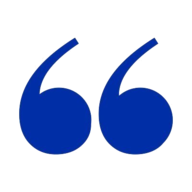
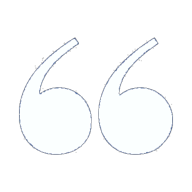
changed theme

Changed region(s): [[0.0938, 0.1875, 0.9062, 0.8125]]

diff --git a/index.html b/index.html
@@ -1,1 +1,1 @@
-<!DOCTYPE html><html lang="en"><head><meta charset="utf-8"><meta name="viewport" content="width=device-width,initial-scale=1,shrink-to-fit=no"><meta name="msapplication-TileColor" content="#ffc40d"><meta name="msapplication-config" content="./browserconfig.xml"><meta name="theme-color" content="#0B3F8E"><meta name="description" content="Reply or quote a tweet with @quoted_replies to see the quoted replies for a tweet (even your own tweet), or share the tweet in my DM."><meta name="author" content="James Muriithi"><meta name="keywords" content="quoted_replies, quoted replies, replies"><meta property="og:site_name" content="https://twitter.com/quoted_replies"><meta property="og:title" content="Quoted Replies"><meta property="og:description" content="Reply or quote a tweet with @quoted_replies to see the quoted replies for a tweet (even your own tweet), or share the tweet in my DM."><meta property="og:image:url" itemprop="image" content="https://james-muriithi.github.io/fyp-ms/assets/images/logo-lg.png"><meta property="og:image" content="https://pbs.twimg.com/profile_images/1227506065023143936/97fRlnwW_400x400.jpg"><meta property="og:image:url" content="https://pbs.twimg.com/profile_images/1227506065023143936/97fRlnwW_400x400.jpg"><meta property="og:image:secure_url" content="https://pbs.twimg.com/profile_images/1227506065023143936/97fRlnwW_400x400.jpg"><meta property="og:image:type" content="image/png"><meta property="og:image:width" content="400"><meta property="og:image:height" content="400"><meta property="og:locale" content="en_GB"><meta property="og:type" content="website"><title>Quoted Replies</title><link rel="apple-touch-icon" sizes="180x180" href="images/apple-touch-icon.png"><link rel="icon" type="image/png" sizes="32x32" href="images/favicon-32x32.png"><link rel="icon" type="image/png" sizes="16x16" href="images/favicon-16x16.png"><link rel="manifest" href="site.webmanifest"><link rel="mask-icon" href="images/safari-pinned-tab.svg" color="#5bbad5"><link rel="shortcut icon" href="images/favicon.ico"><link rel="stylesheet" href="libs/bootstrap/css/bootstrap.min.css" type="text/css"><link rel="preload" href="https://fonts.googleapis.com/icon?family=Material+Icons" as="style" onload="this.onload=null;this.rel='stylesheet'"><noscript><link rel="stylesheet" href="https://fonts.googleapis.com/icon?family=Material+Icons"></noscript><link rel="preload" href="https://fonts.googleapis.com/css2?family=PT+Sans&display=swap" as="style" onload="this.onload=null;this.rel='stylesheet'"><noscript><link rel="stylesheet" href="https://fonts.googleapis.com/css2?family=PT+Sans&display=swap"></noscript><link rel="preload" href="css/util.css" as="style" onload="this.onload=null;this.rel='stylesheet'"><noscript><link rel="stylesheet" href="css/util.css"></noscript><link rel="stylesheet" href="css/main.css"><script src="libs/jquery/jquery.min.js" type="text/javascript"></script></head><body data-theme="dark" class="h-100"><nav class="navbar fixed-top navbar-dark bg-primary nav-fill"><h2 class="navbar-brand mb-0 text-white"><svg version="1.0" xmlns="http://www.w3.org/2000/svg" width="50" height="50" viewBox="0 0 400.000000 400.000000" preserveAspectRatio="xMidYMid meet"><metadata>Created by potrace 1.15, written by Peter Selinger 2001-2017</metadata><g transform="translate(0.000000,400.000000) scale(0.100000,-0.100000)" fill="#fff" stroke="none"><path d="M1424 3124 c-346 -232 -608 -479 -779 -734 -106 -159 -184 -341 -221 -520 -25 -119 -26 -364 -1 -480 87 -406 422 -646 836 -600 52 6 122 17 156 26 184 47 359 190 433 354 53 120 69 352 32 494 -113 444 -624 645 -1017 402 l-41 -26 5 43 c36 319 268 625 713 941 52 37 95 69 95 72 0 9 -70 114 -76 114 -4 0 -65 -39 -135 -86z"/><path d="M3090 3132 c-601 -404 -935 -829 -1016 -1292 -23 -132 -15 -382 15 -495 38 -141 93 -238 196 -341 57 -58 114 -104 155 -127 137 -75 309 -106 480 -87 205 23 331 80 460 210 97 98 149 180 187 295 23 69 27 97 27 205 0 111 -3 134 -28 205 -60 173 -187 321 -340 395 -104 50 -188 70 -301 70 -146 0 -265 -37 -388 -121 l-60 -41 6 73 c12 150 67 285 179 444 112 159 363 389 566 520 34 22 62 45 62 50 0 14 -69 115 -78 115 -4 0 -59 -35 -122 -78z"/></g></svg> Qouted Replies</h2><div class="d-none d-sm-block"><ul class="navbar-nav m-r-30 d-inline-block"><li class="nav-item active"><a class="nav-link" href="#">Home <span class="sr-only">(current)</span></a></li><li class="nav-item"><a class="nav-link" href="#">Popular <span class="sr-only">(current)</span></a></li><li class="nav-item"><a class="nav-link" href="#">About <span class="sr-only">(current)</span></a></li><li class="nav-item"><a class="nav-link" href="#">Account <span class="sr-only">(current)</span></a></li></ul></div><div class="d-flex d-sm-none text-white twitter-logo"><a href="https://twitter.com/quoted_replies" target="_blank" rel="noopener"><svg height="30" width="30" viewBox="283 369 405 200" xmlns="http://www.w3.org/2000/svg"><path d="M 630, 425 A 195, 195 0 0 1 331, 600 A 142, 142 0 0 0 428, 570 A  70,  70 0 0 1 370, 523 A  70,  70 0 0 0 401, 521 A  70,  70 0 0 1 344, 455 A  70,  70 0 0 0 372, 460 A  70,  70 0 0 1 354, 370 A 195, 195 0 0 0 495, 442 A  67,  67 0 0 1 611, 380 A 117, 117 0 0 0 654, 363 A  65,  65 0 0 1 623, 401 A 117, 117 0 0 0 662, 390 A  65,  65 0 0 1 630, 425 Z" style="fill:#fff;"/></svg></a></div></nav><div class="twitter-image f-r"><svg version="1.1" xmlns="http://www.w3.org/2000/svg" xmlns:xlink="http://www.w3.org/1999/xlink" width="60" height="60" viewBox="0 0 50 50"><path fill="#FFFFFF" d="M 35.001, 26.999 H 27 V 35 h -3.999 v -8.001 h -8.002 V 23 h 8.002 v -8 H 27 v 8 h 8.001 V 26.999 z"/></svg></div><div class="container-fluid h-100"><div id="page-home" class="active"><h2>Home Page</h2><div class="block">"Lorem ipsum dolor sit amet, consectetur adipiscing elit, sed do eiusmod tempor incididunt ut labore et dolore magna aliqua. Ut enim ad minim veniam, quis nostrud exercitation ullamco laboris nisi ut aliquip ex ea commodo consequat. Duis aute irure dolor in reprehenderit in voluptate velit esse cillum dolore eu fugiat nulla pariatur. Excepteur sint occaecat cupidatat non proident, sunt in culpa qui officia deserunt mollit anim id est laborum." Section 1.10.32 of "de Finibus Bonorum et Malorum", written by Cicero in 45 BC "Sed ut perspiciatis unde omnis iste natus error sit voluptatem accusantium doloremque laudantium, totam rem aperiam, eaque ipsa quae ab illo inventore veritatis et quasi architecto beatae vitae dicta sunt explicabo. Nemo enim ipsam voluptatem quia voluptas sit aspernatur aut odit aut fugit, sed quia consequuntur magni dolores eos qui ratione voluptatem sequi nesciunt. Neque porro quisquam est, qui dolorem ipsum quia dolor sit amet, consectetur, adipisci velit, sed quia non numquam eius modi tempora incidunt ut labore et dolore magnam aliquam quaerat voluptatem. Ut enim ad minima veniam, quis nostrum exercitationem ullam corporis suscipit laboriosam, nisi ut aliquid ex ea commodi consequatur? Quis autem vel eum iure reprehenderit qui in ea voluptate velit esse quam nihil molestiae consequatur, vel illum qui dolorem eum fugiat quo voluptas nulla pariatur?" 1914 translation by H. Rackham</div></div><div id="page-feed" class="inactive"><h2>Popular Tweets</h2><div class="block"><blockquote class="twitter-tweet"><p lang="und" dir="ltr"><a href="https://twitter.com/quoted_replies?ref_src=twsrc%5Etfw">@quoted_replies</a></p>&mdash; Dazils Ferdinand (@_dazils_) <a href="https://twitter.com/_dazils_/status/1246119110410416130?ref_src=twsrc%5Etfw">April 3, 2020</a></blockquote></div></div><div id="page-create" class="inactive"><h2>About Page</h2></div><div id="page-account" class="inactive h-100"><h2 class="d-flex justify-content-right">Account page</h2><div class="block row h-100 justify-content-center align-items-center"><a class="twitter btn" href="#"><div class="twitter-icon btn-icon"></div>Login with Twitter</a></div></div></div><style type="text/css"></style><footer class="footer d-sm-none"><div id="buttonGroup" class="btn-group selectors" role="group" aria-label="Basic example"><button id="home" type="button" class="btn button-active"><div class="selector-holder"><i class="material-icons">home</i> <span>Home</span></div></button> <button id="feed" type="button" class="btn button-inactive"><div class="selector-holder"><i class="material-icons">trending_up</i> <span>Popular</span></div></button> <button id="create" type="button" class="btn button-inactive"><div class="selector-holder"><i class="material-icons">info_outline</i> <span>About</span></div></button> <button id="account" type="button" class="btn button-inactive"><div class="selector-holder"><i class="material-icons">perm_identity</i> <span>Account</span></div></button></div></footer><script async src="libs/bootstrap/js/bootstrap.bundle.min.js" type="text/javascript"></script><script async src="https://platform.twitter.com/widgets.js" charset="utf-8"></script><script src="js/main.js"></script></body></html>
+<!DOCTYPE html><html lang="en"><head><meta charset="utf-8"><meta name="viewport" content="width=device-width,initial-scale=1,shrink-to-fit=no"><meta name="msapplication-TileColor" content="#ffc40d"><meta name="msapplication-config" content="./browserconfig.xml"><meta name="theme-color" content="#1976D2"><meta name="description" content="Reply or quote a tweet with @quoted_replies to see the quoted replies for a tweet (even your own tweet), or share the tweet in my DM."><meta name="author" content="James Muriithi"><meta name="keywords" content="quoted_replies, quoted replies, replies"><meta property="og:site_name" content="https://twitter.com/quoted_replies"><meta property="og:title" content="Quoted Replies"><meta property="og:description" content="Reply or quote a tweet with @quoted_replies to see the quoted replies for a tweet (even your own tweet), or share the tweet in my DM."><meta property="og:image:url" itemprop="image" content="https://james-muriithi.github.io/fyp-ms/assets/images/logo-lg.png"><meta property="og:image" content="https://pbs.twimg.com/profile_images/1227506065023143936/97fRlnwW_400x400.jpg"><meta property="og:image:url" content="https://pbs.twimg.com/profile_images/1227506065023143936/97fRlnwW_400x400.jpg"><meta property="og:image:secure_url" content="https://pbs.twimg.com/profile_images/1227506065023143936/97fRlnwW_400x400.jpg"><meta property="og:image:type" content="image/png"><meta property="og:image:width" content="400"><meta property="og:image:height" content="400"><meta property="og:locale" content="en_GB"><meta property="og:type" content="website"><title>Quoted Replies</title><link rel="apple-touch-icon" sizes="180x180" href="images/apple-touch-icon.png"><link rel="icon" type="image/png" sizes="32x32" href="images/favicon-32x32.png"><link rel="icon" type="image/png" sizes="16x16" href="images/favicon-16x16.png"><link rel="manifest" href="site.webmanifest"><link rel="mask-icon" href="images/safari-pinned-tab.svg" color="#5bbad5"><link rel="shortcut icon" href="images/favicon.ico"><link rel="stylesheet" href="libs/bootstrap/css/bootstrap.min.css" type="text/css"><link rel="preload" href="https://fonts.googleapis.com/icon?family=Material+Icons" as="style" onload="this.onload=null;this.rel='stylesheet'"><noscript><link rel="stylesheet" href="https://fonts.googleapis.com/icon?family=Material+Icons"></noscript><link rel="preload" href="https://fonts.googleapis.com/css2?family=PT+Sans&display=swap" as="style" onload="this.onload=null;this.rel='stylesheet'"><noscript><link rel="stylesheet" href="https://fonts.googleapis.com/css2?family=PT+Sans&display=swap"></noscript><link rel="preload" href="css/util.css" as="style" onload="this.onload=null;this.rel='stylesheet'"><noscript><link rel="stylesheet" href="css/util.css"></noscript><link rel="stylesheet" href="css/main.css"><script src="libs/jquery/jquery.min.js" type="text/javascript"></script></head><body data-theme="dark" class="h-100"><nav class="navbar fixed-top navbar-dark bg-primary nav-fill"><h2 class="navbar-brand mb-0 text-white"><svg version="1.0" xmlns="http://www.w3.org/2000/svg" width="50" height="50" viewBox="0 0 400.000000 400.000000" preserveAspectRatio="xMidYMid meet"><metadata>Created by potrace 1.15, written by Peter Selinger 2001-2017</metadata><g transform="translate(0.000000,400.000000) scale(0.100000,-0.100000)" fill="#fff" stroke="none"><path d="M1424 3124 c-346 -232 -608 -479 -779 -734 -106 -159 -184 -341 -221 -520 -25 -119 -26 -364 -1 -480 87 -406 422 -646 836 -600 52 6 122 17 156 26 184 47 359 190 433 354 53 120 69 352 32 494 -113 444 -624 645 -1017 402 l-41 -26 5 43 c36 319 268 625 713 941 52 37 95 69 95 72 0 9 -70 114 -76 114 -4 0 -65 -39 -135 -86z"/><path d="M3090 3132 c-601 -404 -935 -829 -1016 -1292 -23 -132 -15 -382 15 -495 38 -141 93 -238 196 -341 57 -58 114 -104 155 -127 137 -75 309 -106 480 -87 205 23 331 80 460 210 97 98 149 180 187 295 23 69 27 97 27 205 0 111 -3 134 -28 205 -60 173 -187 321 -340 395 -104 50 -188 70 -301 70 -146 0 -265 -37 -388 -121 l-60 -41 6 73 c12 150 67 285 179 444 112 159 363 389 566 520 34 22 62 45 62 50 0 14 -69 115 -78 115 -4 0 -59 -35 -122 -78z"/></g></svg> Qouted Replies</h2><div class="d-none d-sm-block"><ul class="navbar-nav m-r-30 d-inline-block"><li class="nav-item active"><a class="nav-link" href="#">Home <span class="sr-only">(current)</span></a></li><li class="nav-item"><a class="nav-link" href="#">Popular <span class="sr-only">(current)</span></a></li><li class="nav-item"><a class="nav-link" href="#">About <span class="sr-only">(current)</span></a></li><li class="nav-item"><a class="nav-link" href="#">Account <span class="sr-only">(current)</span></a></li></ul></div><div class="d-flex d-sm-none text-white twitter-logo"><a href="https://twitter.com/quoted_replies" target="_blank" rel="noopener"><svg height="30" width="30" viewBox="283 369 405 200" xmlns="http://www.w3.org/2000/svg"><path d="M 630, 425 A 195, 195 0 0 1 331, 600 A 142, 142 0 0 0 428, 570 A  70,  70 0 0 1 370, 523 A  70,  70 0 0 0 401, 521 A  70,  70 0 0 1 344, 455 A  70,  70 0 0 0 372, 460 A  70,  70 0 0 1 354, 370 A 195, 195 0 0 0 495, 442 A  67,  67 0 0 1 611, 380 A 117, 117 0 0 0 654, 363 A  65,  65 0 0 1 623, 401 A 117, 117 0 0 0 662, 390 A  65,  65 0 0 1 630, 425 Z" style="fill:#fff;"/></svg></a></div></nav><div class="twitter-image f-r"><svg version="1.1" xmlns="http://www.w3.org/2000/svg" xmlns:xlink="http://www.w3.org/1999/xlink" width="60" height="60" viewBox="0 0 50 50"><path fill="#FFFFFF" d="M 35.001, 26.999 H 27 V 35 h -3.999 v -8.001 h -8.002 V 23 h 8.002 v -8 H 27 v 8 h 8.001 V 26.999 z"/></svg></div><div class="container-fluid h-100"><div id="page-home" class="active"><h2>Home Page</h2><div class="block">"Lorem ipsum dolor sit amet, consectetur adipiscing elit, sed do eiusmod tempor incididunt ut labore et dolore magna aliqua. Ut enim ad minim veniam, quis nostrud exercitation ullamco laboris nisi ut aliquip ex ea commodo consequat. Duis aute irure dolor in reprehenderit in voluptate velit esse cillum dolore eu fugiat nulla pariatur. Excepteur sint occaecat cupidatat non proident, sunt in culpa qui officia deserunt mollit anim id est laborum." Section 1.10.32 of "de Finibus Bonorum et Malorum", written by Cicero in 45 BC "Sed ut perspiciatis unde omnis iste natus error sit voluptatem accusantium doloremque laudantium, totam rem aperiam, eaque ipsa quae ab illo inventore veritatis et quasi architecto beatae vitae dicta sunt explicabo. Nemo enim ipsam voluptatem quia voluptas sit aspernatur aut odit aut fugit, sed quia consequuntur magni dolores eos qui ratione voluptatem sequi nesciunt. Neque porro quisquam est, qui dolorem ipsum quia dolor sit amet, consectetur, adipisci velit, sed quia non numquam eius modi tempora incidunt ut labore et dolore magnam aliquam quaerat voluptatem. Ut enim ad minima veniam, quis nostrum exercitationem ullam corporis suscipit laboriosam, nisi ut aliquid ex ea commodi consequatur? Quis autem vel eum iure reprehenderit qui in ea voluptate velit esse quam nihil molestiae consequatur, vel illum qui dolorem eum fugiat quo voluptas nulla pariatur?" 1914 translation by H. Rackham</div></div><div id="page-feed" class="inactive"><h2>Popular Tweets</h2><div class="block card"><div class="card-body"><blockquote class="twitter-tweet"><p lang="und" dir="ltr"><a href="https://twitter.com/quoted_replies?ref_src=twsrc%5Etfw">@quoted_replies</a></p>&mdash; Dazils Ferdinand (@_dazils_) <a href="https://twitter.com/_dazils_/status/1246119110410416130?ref_src=twsrc%5Etfw">April 3, 2020</a></blockquote></div></div></div><div id="page-create" class="inactive"><h2>About Page</h2></div><div id="page-account" class="inactive h-100"><h2 class="d-flex justify-content-right">Account page</h2><div class="block row h-100 justify-content-center align-items-center"><a class="twitter btn" href="#"><div class="twitter-icon btn-icon"></div>Login with Twitter</a></div></div></div><style type="text/css"></style><footer class="footer d-sm-none"><div id="buttonGroup" class="btn-group selectors" role="group" aria-label="Basic example"><button id="home" type="button" class="btn button-active"><div class="selector-holder"><i class="material-icons">home</i> <span>Home</span></div></button> <button id="feed" type="button" class="btn button-inactive"><div class="selector-holder"><i class="material-icons">trending_up</i> <span>Popular</span></div></button> <button id="create" type="button" class="btn button-inactive"><div class="selector-holder"><i class="material-icons">info_outline</i> <span>About</span></div></button> <button id="account" type="button" class="btn button-inactive"><div class="selector-holder"><i class="material-icons">perm_identity</i> <span>Account</span></div></button></div></footer><script async src="libs/bootstrap/js/bootstrap.bundle.min.js" type="text/javascript"></script><script async src="https://platform.twitter.com/widgets.js" charset="utf-8"></script><script src="js/main.js"></script></body></html><script type="text/javascript"></script>

diff --git a/css/main.css b/css/main.css
@@ -1,2 +1,2 @@
-@import url(https://fonts.googleapis.com/css2?family=Lato:ital,wght@0,400;0,700;1,900&display=swap);html{height:100%}body{margin-bottom:80px;margin-top:90px;font-family:Menlo,"Meslo LG",monospace!important}.footer{position:fixed;bottom:0;width:100%;height:60px;background-color:#f5f5f5;border-top:1px solid transparent;box-shadow:0 1px 5px rgba(0,0,0,.2)}.twitter-logo{cursor:pointer}.twitter-image{position:absolute;right:10px;height:60px;width:60px;bottom:65px;position:fixed;background:#0b3f8e;border-radius:50%;z-index:10000;cursor:pointer}.twitter-image svg{transition-property:transform;transition-duration:.3s}.twitter-image svg:active,.twitter-image svg:focus,.twitter-image svg:hover{transform:rotate(135deg)}.navbar{border-top:1px solid transparent;box-shadow:0 1px 5px rgba(0,0,0,.2);background-image:linear-gradient(to right,#0b3f8e,#0e4aa5,#1255bc,#1661d4,#1a6ded)!important}.navbar-brand svg{border-radius:50%;border:1px solid #f8f9fa}.navbar-nav{font-family:'PT Sans',sans-serif!important}.navbar-nav .nav-item.active .nav-link{font-weight:800}.group-container{padding:0;height:100%}.block,.selectors{height:100%;width:100%}.selectors button{border:none;border-radius:0;background-color:#f8f9fa!important;width:25%;margin-left:0;-webkit-transition-property:min-width,max-width;transition-property:min-width,max-width;-webkit-transition-timing-function:cubic-bezier(.4,0,.2,1);transition-timing-function:cubic-bezier(.4,0,.2,1);-webkit-transition-duration:.1s;transition-duration:.1s}.selectors button:active{border:none!important;outline:0!important}.selectors button:focus{border:none!important;outline:0!important;box-shadow:0 0}.active,.selector-holder{display:flex;flex-direction:column}.selectors button.button-active{border-bottom:2px solid #6eb9f7!important}.inactive{display:none}.selector-holder span{font-size:.8rem}.button-active,.selectors button:active,.selectors button:focus,.selectors button:hover{padding-top:3px;-webkit-transition-property:padding-top;transition-property:padding-top;color:#6200ee}.button-inactive{color:#202121}.selectors button i{padding-top:8px;pointer-events:none;transition-property:padding-top,color;transition-timing-function:cubic-bezier(.4,0,.2,1);transition-duration:.1s}.selectors button span{margin-top:auto;padding-bottom:10px;font-size:.78rem;font-weight:700;pointer-events:none;transition-property:font-size,color;transition-timing-function:cubic-bezier(.4,0,.2,1);transition-duration:.1s;font-family:'PT Sans',sans-serif!important}.navbar-nav li{display:inline-block!important;margin-left:1rem}.navbar-nav li a{font-size:1.1rem}@media screen and (min-width:576px){.twitter-image{bottom:20px}}@media screen and (max-width:667px){.navbar-nav{margin-right:10px}.navbar-nav li a{font-size:1rem}}
+@import url(https://fonts.googleapis.com/css2?family=Lato:ital,wght@0,400;0,700;1,900&display=swap);html{height:100%}body{margin-bottom:80px;margin-top:90px;font-family:Menlo,"Meslo LG",monospace!important}.footer{position:fixed;bottom:0;width:100%;height:60px;background-color:#f5f5f5;border-top:1px solid transparent;box-shadow:0 1px 5px rgba(0,0,0,.2)}.twitter-logo{cursor:pointer}.twitter-image{position:absolute;right:10px;height:60px;width:60px;bottom:65px;position:fixed;background:#536dfe;border-radius:50%;z-index:10000;cursor:pointer}.twitter-image svg{transition-property:transform;transition-duration:.3s}.twitter-image svg:active,.twitter-image svg:focus,.twitter-image svg:hover{transform:rotate(135deg)}.navbar{border-top:1px solid transparent;box-shadow:0 1px 5px rgba(0,0,0,.2);background:#2196f3!important}.navbar-brand svg{border-radius:50%;border:1px solid #f8f9fa}.navbar-nav{font-family:'PT Sans',sans-serif!important}.navbar-nav .nav-item.active .nav-link{font-weight:800}.group-container{padding:0;height:100%}.block,.selectors{height:100%;width:100%}.selectors button{border:none;border-radius:0;background-color:#f8f9fa!important;width:25%;margin-left:0;-webkit-transition-property:min-width,max-width;transition-property:min-width,max-width;-webkit-transition-timing-function:cubic-bezier(.4,0,.2,1);transition-timing-function:cubic-bezier(.4,0,.2,1);-webkit-transition-duration:.1s;transition-duration:.1s}.selectors button:active{border:none!important;outline:0!important}.selectors button:focus{border:none!important;outline:0!important;box-shadow:0 0}.active,.selector-holder{display:flex;flex-direction:column}.selectors button.button-active{border-bottom:2px solid #6eb9f7!important}.inactive{display:none}.selector-holder span{font-size:.8rem}.button-active,.selectors button:active,.selectors button:focus,.selectors button:hover{padding-top:3px;-webkit-transition-property:padding-top;transition-property:padding-top;color:#1976d2}.button-inactive{color:#202121}.selectors button i{padding-top:8px;pointer-events:none;transition-property:padding-top,color;transition-timing-function:cubic-bezier(.4,0,.2,1);transition-duration:.1s}.selectors button span{margin-top:auto;padding-bottom:10px;font-size:.78rem;font-weight:700;pointer-events:none;transition-property:font-size,color;transition-timing-function:cubic-bezier(.4,0,.2,1);transition-duration:.1s;font-family:'PT Sans',sans-serif!important}.navbar-nav li{display:inline-block!important;margin-left:1rem}.navbar-nav li a{font-size:1.1rem}.card{position:relative;margin-bottom:24px;margin-top:10px;background-color:#fff;border-radius:3px;-webkit-box-shadow:0 1px 3px 0 rgba(0,0,0,.33);box-shadow:0 1px 3px 0 rgba(0,0,0,.33)}@media screen and (min-width:576px){.twitter-image{bottom:20px}}@media screen and (max-width:667px){.navbar-nav{margin-right:10px}.navbar-nav li a{font-size:1rem}}
 /*# sourceMappingURL=main.css.map */

diff --git a/google71e3029c5478d361.html b/google71e3029c5478d361.html
@@ -1,0 +1,1 @@
+google-site-verification: google71e3029c5478d361.html
